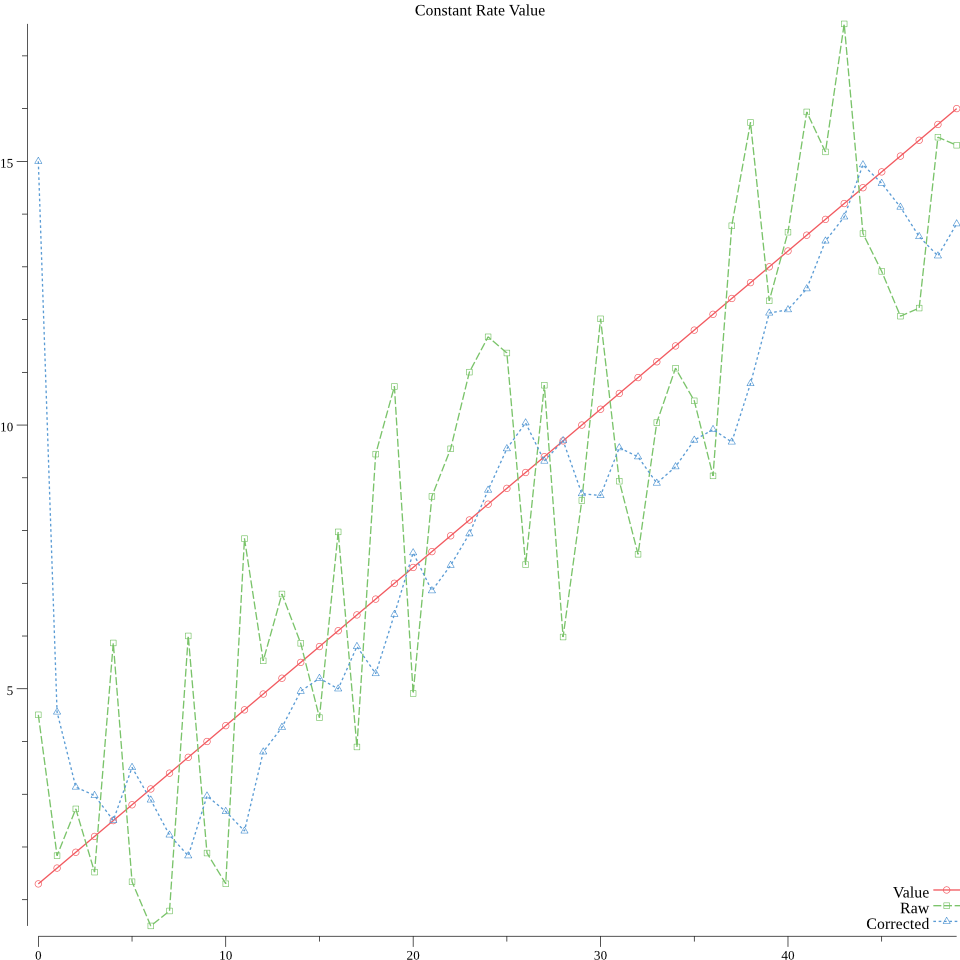
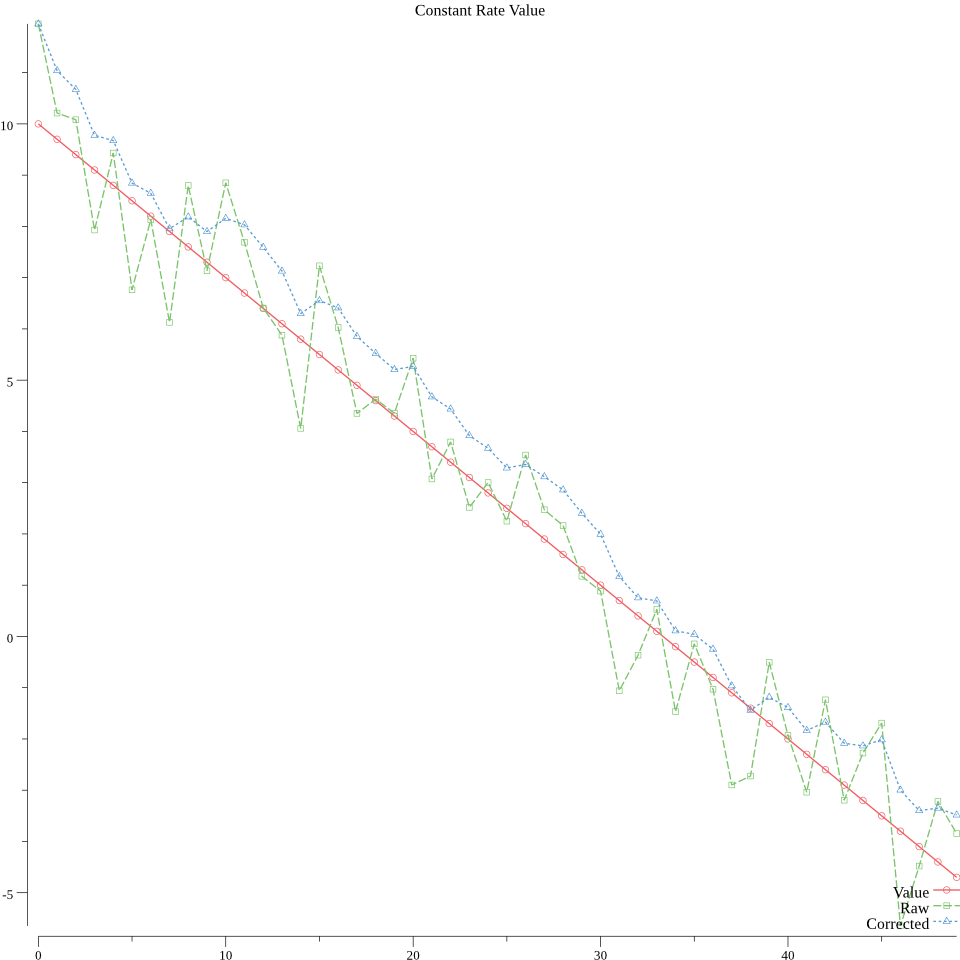
change the naming

diff --git a/kalman.go b/kalman.go
@@ -1,26 +1,25 @@
 package kalman
 
 type Kalman struct {
-	Q         float64
-	R         float64 //estimate of measurement variance
-	K         float64 // Gain
-	LastValue float64
-	LastError float64
+	Q                float64
+	Gain             float64 // Gain
+	MeasurementError float64 //estimate of measurement variance
+	EstimateValue    float64
+	EstimateError    float64
 }
 
 func New(q, r, lastErr, lastVal float64) *Kalman {
 	return &Kalman{
-		Q:         q,
-		R:         r,
-		LastValue: lastVal,
-		LastError: lastErr,
+		Q:                q,
+		MeasurementError: r,
+		EstimateValue:    lastVal,
+		EstimateError:    lastErr,
 	}
-
 }
 
 func (k *Kalman) Feed(measurement float64) float64 {
-	k.K = k.LastError / (k.LastError + k.R)
-	k.LastValue = k.LastValue + k.K*(measurement-k.LastValue)
-	k.LastError = ((1 - k.K) * k.LastError) + k.Q
-	return k.LastValue
+	k.Gain = k.EstimateError / (k.EstimateError + k.MeasurementError)
+	k.EstimateValue = k.EstimateValue + k.Gain*(measurement-k.EstimateValue)
+	k.EstimateError = ((1 - k.Gain) * k.EstimateError) + k.Q
+	return k.EstimateValue
 }

diff --git a/example/changing_value/constant_rate.go b/example/changing_value/constant_rate.go
@@ -17,19 +17,20 @@ func main() {
 
 	var (
 		n       = 50
-		xVector = vectorize(1, 0.3, n)
-		z       = generateFromVector(xVector, 4, n)
+		xVector = vectorize(10, -0.3, n)
+		z       = generateFromVector(xVector, 2, n)
 	)
 
-	k := kalman.New(0.0005, 0.005, 1, 15)
+	k := kalman.New(1e-3, 0.01, 100, 11)
 
 	var raw = []float64{}
 	var vals = []float64{}
 	for _, val := range z {
-		vals = append(vals, k.LastValue)
 		raw = append(raw, val)
 
 		k.Feed(val)
+
+		vals = append(vals, k.LastValue)
 	}
 
 	p, err := plot.New()
@@ -54,7 +55,7 @@ func main() {
 
 func vectorize(start, velocity float64, length int) []float64 {
 	vectorized := []float64{}
-	for x := 1; x <= length; x++ {
+	for x := 0; x < length; x++ {
 		vectorized = append(vectorized, start+(float64(x)*velocity))
 	}
 	return vectorized

diff --git a/example/static_value/static_example.go b/example/static_value/static_example.go
@@ -25,9 +25,8 @@ func main() {
 	var raw = []float64{}
 	var vals = []float64{}
 	for _, val := range z {
-		k.Feed(val)
 		raw = append(raw, val)
-		vals = append(vals, k.LastValue)
+		vals = append(vals, k.Feed(val))
 	}
 
 	p, err := plot.New()
